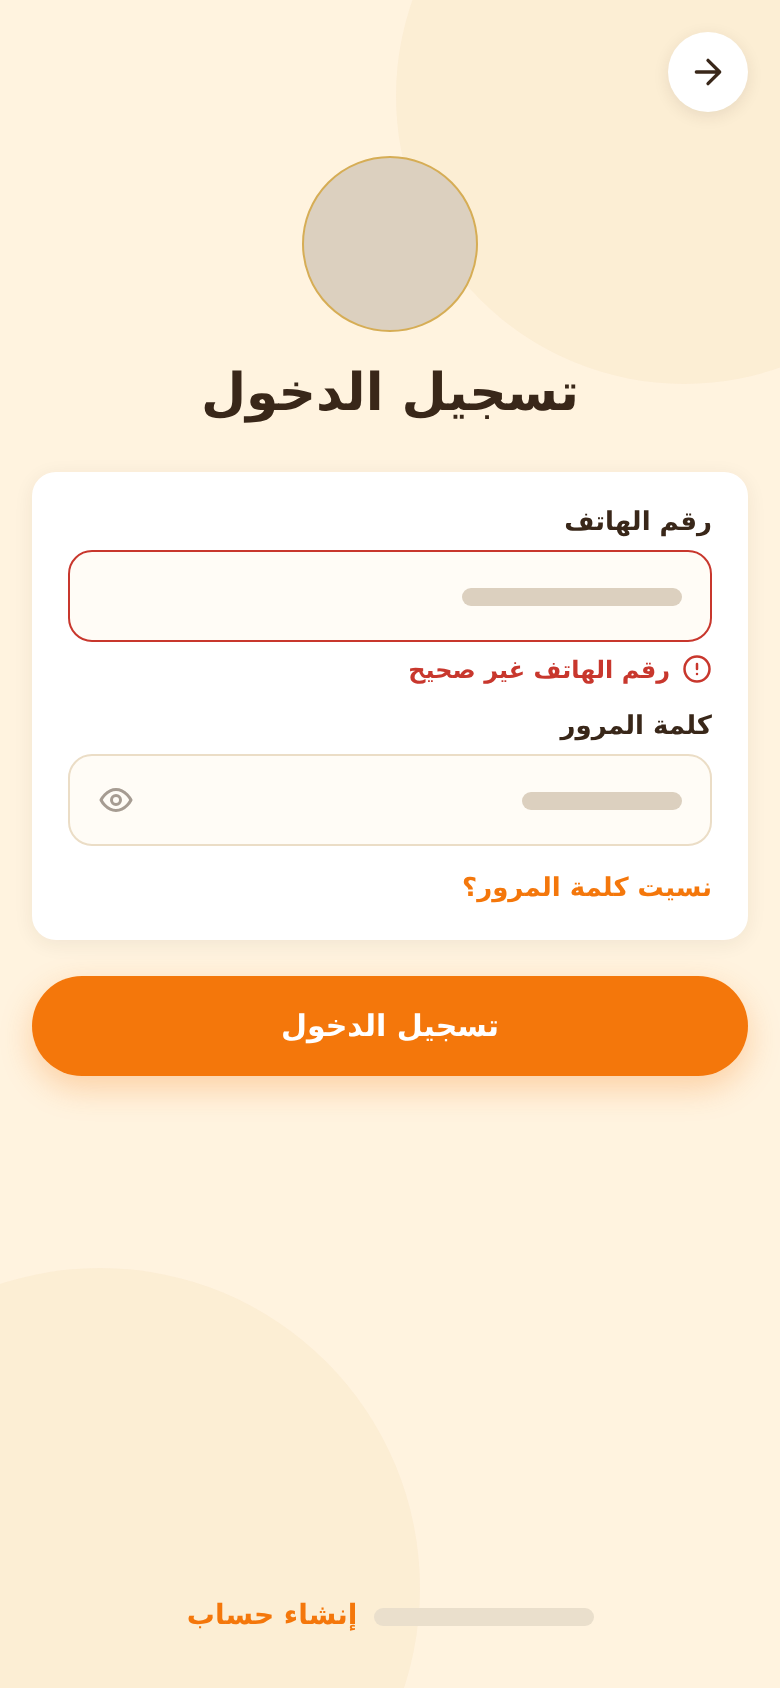
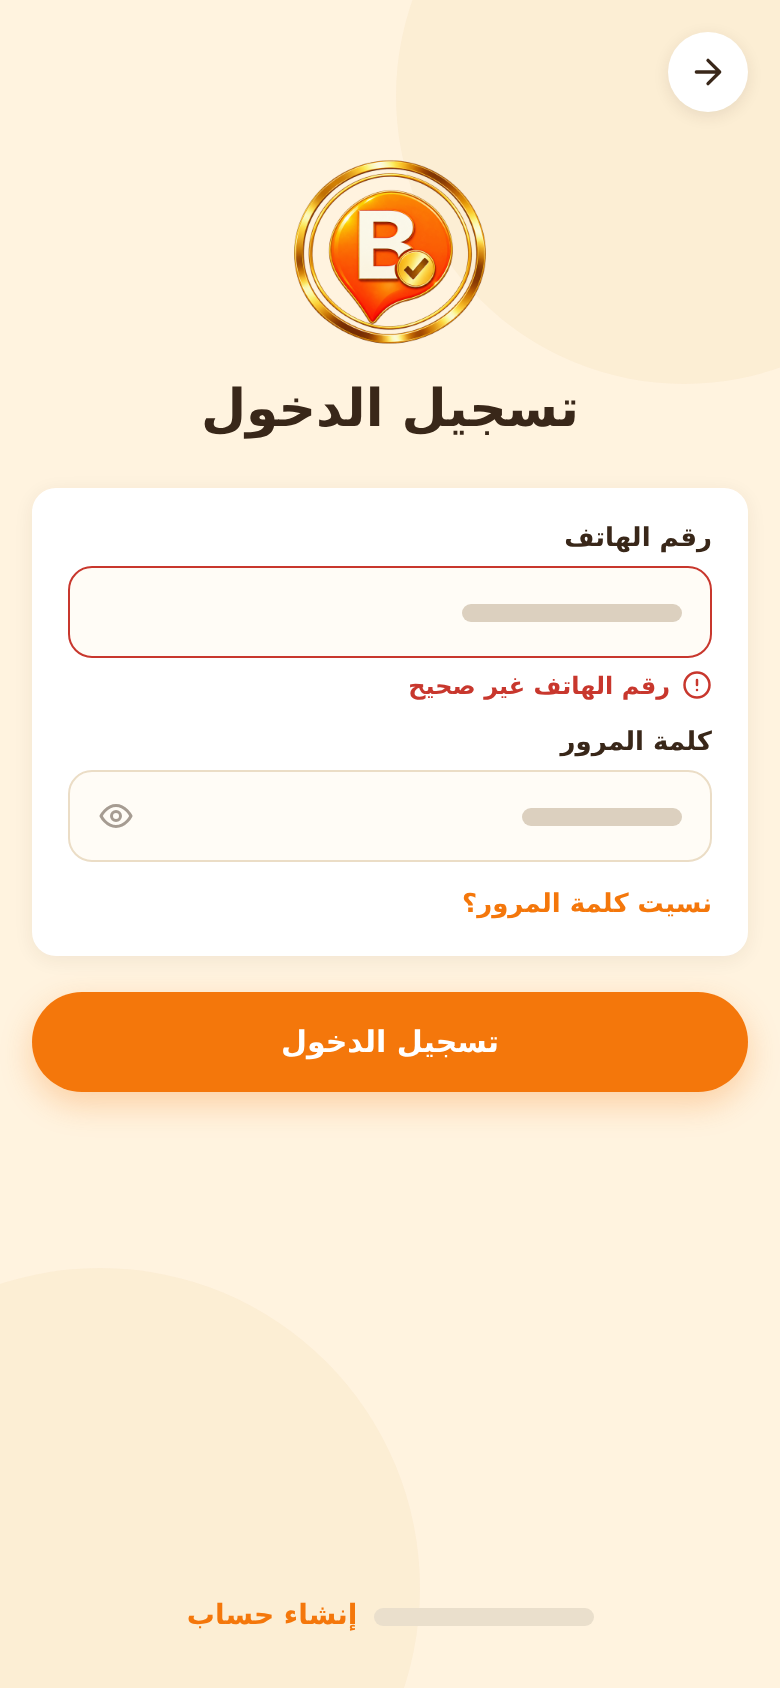
Add files via upload

Changed region(s): [[0.0308, 0.0924, 0.9538, 0.6469], [0.1231, 0.4621, 0.1846, 0.4929], [0.0923, 0.3697, 0.1231, 0.4005]]

diff --git a/01_splash.html b/01_splash.html
@@ -1,81 +1,87 @@
 <!DOCTYPE html>
-<html lang="ar" dir="rtl" class="h-full">
+<html lang="ar" dir="rtl">
 <head>
-  <meta charset="UTF-8">
-  <meta name="viewport" content="width=device-width, initial-scale=1.0">
-  <title>شاشة البداية - بيستاهل BISTAHEL</title>
-  <link rel="preconnect" href="https://fonts.googleapis.com">
-  <link rel="preconnect" href="https://fonts.gstatic.com" crossorigin>
-  <link href="https://fonts.googleapis.com/css2?family=IBM+Plex+Sans+Arabic:wght@400;600;700&display=swap" rel="stylesheet">
-  <script src="https://cdn.tailwindcss.com"></script>
-  <script>
-    tailwind.config = {
-      theme: {
-        extend: {
-          fontFamily: {
-            sans: ['"IBM Plex Sans Arabic"', 'sans-serif'],
-          },
-          colors: {
-            brand: {
-              orange: '#F4770B',
-              gold: '#D6AD55',
-              bg: '#FFF3DF',
-              dark: '#392719',
-              warmgray: '#E6DCCF'
-            }
-          }
-        }
-      }
-    }
-  </script>
-  <style>
-    body {
-      font-family: 'IBM Plex Sans Arabic', sans-serif;
-      background-color: #FFF3DF;
-      color: #392719;
-      margin: 0;
-      padding: 0;
-      overflow: hidden;
-      -webkit-font-smoothing: antialiased;
-      -moz-osx-font-smoothing: grayscale;
-    }
-  </style>
+<meta charset="utf-8"/>
+<meta name="viewport" content="width=device-width, initial-scale=1.0"/>
+<title>شاشة البداية - بيستاهل BISTAHEL</title>
+<link rel="preconnect" href="https://fonts.googleapis.com"/>
+<link rel="preconnect" href="https://fonts.gstatic.com" crossorigin/>
+<link href="https://fonts.googleapis.com/css2?family=IBM+Plex+Sans+Arabic:wght@400;500;600;700&display=swap" rel="stylesheet"/>
+<style>
+*{box-sizing:border-box;margin:0;padding:0;-webkit-tap-highlight-color:transparent}
+html,body{background:#FFF3DF}
+body{font-family:'IBM Plex Sans Arabic','Noto Sans Arabic','DejaVu Sans',sans-serif;color:#392719;direction:rtl;display:flex;justify-content:center}
+.screen{width:390px;height:844px;background:#FFF3DF;position:relative;display:flex;flex-direction:column;overflow:hidden}
+.grow{flex:1}
+.sk{display:inline-block;background:#DCD0BF}.sk2{display:inline-block;background:#EADFCC}
+.row{display:flex;align-items:center}.col{display:flex;flex-direction:column}
+.ib{border:0;border-radius:50%;display:inline-flex;align-items:center;justify-content:center;box-shadow:0 2px 8px rgba(57,39,25,.10);flex:none;cursor:pointer}
+.card{background:#fff;border-radius:12px;box-shadow:0 2px 10px rgba(57,39,25,.07)}
+.h2{font-size:16px;font-weight:700;line-height:24px}
+.link{font-size:12px;font-weight:600;color:#F4770B;display:inline-flex;align-items:center;gap:2px}
+.stars{display:inline-flex;align-items:center}
+.svb{position:absolute;width:26px;height:26px;border-radius:50%;background:rgba(255,255,255,.92);display:flex;align-items:center;justify-content:center}
+.chips{display:flex;gap:8px;overflow:hidden;padding:2px 16px}
+.chip{height:32px;padding:0 16px;border-radius:999px;background:#fff;border:1px solid rgba(57,39,25,.14);display:flex;align-items:center;flex:none}
+.chip.on{background:#F4770B;border-color:#F4770B;box-shadow:0 2px 6px rgba(244,119,11,.25)}
+.chip.on i{background:rgba(255,255,255,.85)}
+.hscroll{display:flex;gap:12px;overflow:hidden;padding:2px 16px 6px}
+.pc{width:148px;flex:none;background:#fff;border-radius:12px;box-shadow:0 2px 10px rgba(57,39,25,.07);overflow:hidden}
+.pc .img{position:relative;height:104px;background:#D8CEBF}
+.pc .b{padding:10px 10px 12px;display:flex;flex-direction:column;gap:7px}
+.hc{display:flex;gap:12px;padding:10px;background:#fff;border-radius:12px;box-shadow:0 2px 10px rgba(57,39,25,.07);align-items:stretch}
+.hc .img{position:relative;width:84px;height:84px;border-radius:10px;background:#D8CEBF;flex:none}
+.hc .b{flex:1;display:flex;flex-direction:column;justify-content:space-between;padding:2px 0}
+.dc{background:#fff;border-radius:12px;box-shadow:0 2px 10px rgba(57,39,25,.07);padding:8px}
+.dc .img{position:relative;height:112px;border-radius:10px;background:#D8CEBF}
+.dc .b{display:flex;flex-direction:column;gap:7px;padding:10px 2px 4px}
+.grid2{display:grid;grid-template-columns:1fr 1fr;gap:12px;padding:0 16px}
+.nav{position:sticky;bottom:0;height:68px;background:#fff;border-top:1px solid rgba(57,39,25,.08);box-shadow:0 -4px 12px rgba(57,39,25,.05);display:flex;align-items:center;justify-content:space-around;padding:0 8px;z-index:9;flex:none}
+.nav .it{width:48px;height:48px;display:flex;align-items:center;justify-content:center;color:rgba(57,39,25,.42)}
+.nav .it.on{color:#F4770B}
+.nav .fab{width:56px;height:56px;border-radius:50%;background:#F4770B;border:4px solid #fff;color:#fff;display:flex;align-items:center;justify-content:center;margin-top:-26px;box-shadow:0 6px 16px rgba(244,119,11,.4)}
+.field{display:flex;flex-direction:column;gap:6px}
+.lbl{font-size:13px;font-weight:600}
+.inp{height:46px;border-radius:12px;border:1px solid #EBDDC6;background:#FFFCF6;display:flex;align-items:center;justify-content:space-between;padding:0 14px}
+.btn{height:50px;border:0;border-radius:999px;background:#F4770B;color:#fff;font-family:inherit;font-size:15px;font-weight:700;box-shadow:0 6px 16px rgba(244,119,11,.28);width:100%}
+.btn.out{background:#fff;color:#F4770B;border:1.5px solid #F4770B;box-shadow:none;height:44px;font-size:14px}
+.deco1{position:absolute;top:-96px;right:-96px;width:288px;height:288px;border-radius:50%;background:#D6AD55;opacity:.08}
+.deco2{position:absolute;bottom:-110px;left:-110px;width:320px;height:320px;border-radius:50%;background:#D6AD55;opacity:.08}
+.logo{border-radius:50%;background:#DCD0BF;border:1.5px solid #D6AD55}
+.tabs{display:flex;background:#fff;margin:0 16px;border-radius:12px;box-shadow:0 2px 10px rgba(57,39,25,.07)}
+.tab{flex:1;text-align:center;padding:12px 0 10px;font-size:14px;font-weight:600;color:rgba(57,39,25,.5);border-bottom:3px solid transparent}
+.tab.on{color:#F4770B;border-bottom-color:#F4770B}
+.bbar{position:sticky;bottom:0;background:rgba(255,255,255,.94);box-shadow:0 -4px 20px rgba(57,39,25,.08);padding:12px 16px;display:flex;gap:12px;align-items:center;z-index:9;flex:none}
+.bbar .btn{flex:1;height:48px}
+.hero{position:relative;height:220px;background:#D8CEBF;flex:none}
+.hero .t{position:absolute;top:16px;left:16px;right:16px;display:flex;justify-content:space-between}
+.dots{position:absolute;bottom:22px;left:0;right:0;display:flex;justify-content:center;gap:6px}
+.dots b{width:8px;height:8px;border-radius:50%;background:rgba(255,255,255,.7)}.dots b.on{width:22px;border-radius:99px;background:#F4770B}
+.info{margin:-12px 16px 0;padding:16px;position:relative;z-index:2;display:flex;flex-direction:column;gap:12px}
+.rv{padding:14px;display:flex;flex-direction:column;gap:12px}
+.pill{display:inline-block;background:#fff;border:1px solid #EBDDC6;border-radius:999px}
+.tl{position:relative;padding:0 16px;display:flex;flex-direction:column;gap:14px}
+.tl:before{content:"";position:absolute;right:35px;top:20px;bottom:20px;width:2px;background:#E6D7BD}
+.tli{display:flex;gap:12px;align-items:flex-start;position:relative}
+.dot{width:40px;height:40px;border-radius:50%;background:#fff;border:2px solid #F9C79A;display:flex;align-items:center;justify-content:center;color:#F4770B;flex:none;z-index:2}
+</style>
 </head>
-<body class="h-full w-full flex items-center justify-center p-0 m-0 bg-[#FFF3DF] select-none">
-  <!-- Container strictly sized for standard 390x844 mobile viewport with no scrolling -->
-  <div class="relative w-[390px] h-[844px] max-w-[390px] max-h-[844px] bg-[#FFF3DF] overflow-hidden flex flex-col items-center justify-between shadow-2xl">
-    
-    <!-- 1. Ambient Background Decor: Two subtle soft gold transparent circles in opposite corners -->
-    <!-- Top-Right decorative circle -->
-    <div class="absolute -top-24 -right-24 w-72 h-72 rounded-full pointer-events-none" 
-         style="background-color: #D6AD55; opacity: 0.08;"></div>
-    
-    <!-- Bottom-Left decorative circle -->
-    <div class="absolute -bottom-28 -left-28 w-80 h-80 rounded-full pointer-events-none" 
-         style="background-color: #D6AD55; opacity: 0.08;"></div>
+<body>
+<main class="screen" data-screen="شاشة البداية">
 
-    <!-- Empty top spacer to achieve the requested 'slightly above center' balance -->
-    <div class="h-8 w-full pointer-events-none"></div>
+<div class="deco1"></div><div class="deco2"></div>
+<div class="grow" style="flex:1.1"></div>
+<div class="col" style="align-items:center;position:relative">
+  <img src="logo-mark.png" alt="" width="144" height="144" style="width:144px;height:144px;object-fit:contain;flex:none;display:block"/>
+  <h1 style="margin-top:22px;font-size:36px;font-weight:700;letter-spacing:-.01em">بيستاهل</h1>
+</div>
+<div class="grow" style="flex:1.4"></div>
+<div class="row" style="justify-content:center;gap:8px;margin-bottom:80px;position:relative">
+  <i style="width:10px;height:10px;border-radius:50%;background:#F4770B"></i>
+  <i style="width:10px;height:10px;border-radius:50%;background:#F4770B;opacity:.4"></i>
+  <i style="width:10px;height:10px;border-radius:50%;background:#F4770B;opacity:.4"></i>
+</div>
 
-    <!-- 2. Center Branding Group (placed slightly above exact center) -->
-    <div class="relative z-10 flex flex-col items-center justify-center -mt-10">
-      <!-- Empty warm-gray circle placeholder for logo (120px diameter) with thin gold border -->
-      <div class="w-[120px] h-[120px] rounded-full border border-[#D6AD55] bg-[#E6DCCF] shadow-sm flex items-center justify-center"></div>
-
-      <!-- App Name: strictly "بيستاهل" in bold large brown text -->
-      <h1 class="mt-6 text-4xl font-bold tracking-tight text-[#392719]">
-        بيستاهل
-      </h1>
-    </div>
-
-    <!-- 3. Bottom Loading Indicator: exactly 80px from bottom edge -->
-    <!-- 3 small dots in #F4770B: 1st filled (100%), 2nd and 3rd at 40% opacity -->
-    <div class="relative z-10 mb-[80px] flex items-center justify-center gap-2">
-      <div class="w-2.5 h-2.5 rounded-full bg-[#F4770B]"></div>
-      <div class="w-2.5 h-2.5 rounded-full bg-[#F4770B] opacity-40"></div>
-      <div class="w-2.5 h-2.5 rounded-full bg-[#F4770B] opacity-40"></div>
-    </div>
-
-  </div>
+</main>
 </body>
 </html>

diff --git a/18_login_error.html b/18_login_error.html
@@ -71,7 +71,7 @@ body{font-family:'IBM Plex Sans Arabic','Noto Sans Arabic','DejaVu Sans',sans-se
 
 <div class="deco1"></div><div class="deco2"></div>
 <div style="padding:16px;position:relative"><button class="ib" style="width:40px;height:40px;background:#fff;color:#392719"><svg class="" width="20" height="20" viewBox="0 0 24 24" fill="none" stroke="currentColor" stroke-width="2" stroke-linecap="round" stroke-linejoin="round"><path d="M5 12h14M12 5l7 7-7 7"/></svg></button></div>
-<div class="col" style="align-items:center;gap:16px;margin-top:6px;position:relative"><i class="sk" style="width:88px;height:88px;border-radius:50%;flex:none;border:1.5px solid #D6AD55"></i><h1 style="font-size:26px;font-weight:700">تسجيل الدخول</h1></div>
+<div class="col" style="align-items:center;gap:16px;margin-top:6px;position:relative"><img src="logo-mark.png" alt="" width="96" height="96" style="width:96px;height:96px;object-fit:contain;flex:none;display:block"/><h1 style="font-size:26px;font-weight:700">تسجيل الدخول</h1></div>
 <div class="card col" style="margin:24px 16px 0;padding:18px;gap:14px;position:relative">
   <div class="field"><span class="lbl">رقم الهاتف</span><div class="inp" style="border-color:#C8372D;border-width:1.5px"><i class="sk" style="width:110px;height:9px;border-radius:999px;"></i><span></span></div><div class="row" style="gap:6px;color:#C8372D"><svg class="" width="15" height="15" viewBox="0 0 24 24" fill="none" stroke="#C8372D" stroke-width="2" stroke-linecap="round" stroke-linejoin="round"><circle cx="12" cy="12" r="10"/><path d="M12 8v4M12 16h.01"/></svg><span style="font-size:12px;font-weight:600">رقم الهاتف غير صحيح</span></div></div>
   <div class="field"><span class="lbl">كلمة المرور</span><div class="inp" style="border-color:#EBDDC6;border-width:1px"><i class="sk" style="width:80px;height:9px;border-radius:999px;"></i><svg class="" width="18" height="18" viewBox="0 0 24 24" fill="none" stroke="rgba(57,39,25,.45)" stroke-width="2" stroke-linecap="round" stroke-linejoin="round"><path d="M2 12s3.5-7 10-7 10 7 10 7-3.5 7-10 7S2 12 2 12z"/><circle cx="12" cy="12" r="3"/></svg></div></div>

diff --git a/03_signup.html b/03_signup.html
@@ -72,7 +72,7 @@ body{font-family:'IBM Plex Sans Arabic','Noto Sans Arabic','DejaVu Sans',sans-se
 <div class="deco1"></div><div class="deco2"></div>
 <div style="padding:16px;position:relative"><button class="ib" style="width:40px;height:40px;background:#fff;color:#392719"><svg class="" width="20" height="20" viewBox="0 0 24 24" fill="none" stroke="currentColor" stroke-width="2" stroke-linecap="round" stroke-linejoin="round"><path d="M5 12h14M12 5l7 7-7 7"/></svg></button></div>
 <div class="col" style="align-items:center;gap:16px;margin-top:6px;position:relative">
-  <i class="sk" style="width:88px;height:88px;border-radius:50%;flex:none;border:1.5px solid #D6AD55"></i>
+  <img src="logo-mark.png" alt="" width="96" height="96" style="width:96px;height:96px;object-fit:contain;flex:none;display:block"/>
   <h1 style="font-size:26px;font-weight:700">إنشاء حساب</h1>
 </div>
 <div class="card col" style="margin:24px 16px 0;padding:18px;gap:14px;position:relative"><div class="field"><span class="lbl">الاسم</span><div class="inp"><i class="sk" style="width:110px;height:9px;border-radius:999px;"></i><span></span></div></div><div class="field"><span class="lbl">رقم الهاتف</span><div class="inp"><i class="sk" style="width:110px;height:9px;border-radius:999px;"></i><span></span></div></div><div class="field"><span class="lbl">كلمة المرور</span><div class="inp"><i class="sk" style="width:110px;height:9px;border-radius:999px;"></i><svg class="" width="18" height="18" viewBox="0 0 24 24" fill="none" stroke="rgba(57,39,25,.45)" stroke-width="2" stroke-linecap="round" stroke-linejoin="round"><path d="M2 12s3.5-7 10-7 10 7 10 7-3.5 7-10 7S2 12 2 12z"/><circle cx="12" cy="12" r="3"/></svg></div></div><div class="row" style="gap:10px"><i class="sk" style="width:20px;height:20px;border-radius:6px"></i><i class="sk2" style="width:170px;height:9px;border-radius:999px;"></i></div></div>

diff --git a/02_login.html b/02_login.html
@@ -72,7 +72,7 @@ body{font-family:'IBM Plex Sans Arabic','Noto Sans Arabic','DejaVu Sans',sans-se
 <div class="deco1"></div><div class="deco2"></div>
 <div style="padding:16px;position:relative"><button class="ib" style="width:40px;height:40px;background:#fff;color:#392719"><svg class="" width="20" height="20" viewBox="0 0 24 24" fill="none" stroke="currentColor" stroke-width="2" stroke-linecap="round" stroke-linejoin="round"><path d="M5 12h14M12 5l7 7-7 7"/></svg></button></div>
 <div class="col" style="align-items:center;gap:16px;margin-top:6px;position:relative">
-  <i class="sk" style="width:88px;height:88px;border-radius:50%;flex:none;border:1.5px solid #D6AD55"></i>
+  <img src="logo-mark.png" alt="" width="96" height="96" style="width:96px;height:96px;object-fit:contain;flex:none;display:block"/>
   <h1 style="font-size:26px;font-weight:700">تسجيل الدخول</h1>
 </div>
 <div class="card col" style="margin:24px 16px 0;padding:18px;gap:14px;position:relative"><div class="field"><span class="lbl">رقم الهاتف</span><div class="inp"><i class="sk" style="width:110px;height:9px;border-radius:999px;"></i><span></span></div></div><div class="field"><span class="lbl">كلمة المرور</span><div class="inp"><i class="sk" style="width:110px;height:9px;border-radius:999px;"></i><svg class="" width="18" height="18" viewBox="0 0 24 24" fill="none" stroke="rgba(57,39,25,.45)" stroke-width="2" stroke-linecap="round" stroke-linejoin="round"><path d="M2 12s3.5-7 10-7 10 7 10 7-3.5 7-10 7S2 12 2 12z"/><circle cx="12" cy="12" r="3"/></svg></div></div><div class="row" style="justify-content:flex-start"><span class="link" style="font-size:13px">نسيت كلمة المرور؟</span></div></div>

diff --git a/04_home.html b/04_home.html
@@ -70,7 +70,7 @@ body{font-family:'IBM Plex Sans Arabic','Noto Sans Arabic','DejaVu Sans',sans-se
 <main class="screen" data-screen="الرئيسية">
 
 <div class="row" style="justify-content:space-between;padding:16px 16px 4px">
-  <div class="row" style="gap:10px"><i class="sk" style="width:36px;height:36px;border-radius:50%;flex:none;border:1.5px solid #D6AD55"></i><span style="font-size:18px;font-weight:700">بيستاهل</span></div>
+  <div class="row" style="gap:10px"><img src="logo-mark.png" alt="" width="40" height="40" style="width:40px;height:40px;object-fit:contain;flex:none;display:block"/><span style="font-size:18px;font-weight:700">بيستاهل</span></div>
   <button class="ib" style="width:40px;height:40px;background:#fff;color:#392719"><svg class="" width="20" height="20" viewBox="0 0 24 24" fill="none" stroke="currentColor" stroke-width="2" stroke-linecap="round" stroke-linejoin="round"><path d="M6 8a6 6 0 0 1 12 0c0 7 3 9 3 9H3s3-2 3-9"/><path d="M10.3 21a1.94 1.94 0 0 0 3.4 0"/></svg></button>
 </div>
 <div class="row" style="padding:6px 16px 0;gap:6px"><svg class="" width="16" height="16" viewBox="0 0 24 24" fill="none" stroke="#F4770B" stroke-width="2" stroke-linecap="round" stroke-linejoin="round"><path d="M20 10c0 6-8 12-8 12s-8-6-8-12a8 8 0 0 1 16 0Z"/><circle cx="12" cy="10" r="3"/></svg><i class="sk" style="width:110px;height:9px;border-radius:999px;"></i><svg class="" width="16" height="16" viewBox="0 0 24 24" fill="none" stroke="rgba(57,39,25,.5)" stroke-width="2" stroke-linecap="round" stroke-linejoin="round"><path d="m6 9 6 6 6-6"/></svg></div>

diff --git a/DESIGN_SYSTEM.md b/DESIGN_SYSTEM.md
@@ -21,3 +21,9 @@
 | خطأ (حقل / رسالة) | #C8372D |
 | حدود البطاقات | #F0E2CD |
 | رمادي هيكلي دافئ | #DCD0BF / #EADFCC |
+
+## الشعار
+- `logo.png`: الشعار الكامل (الرمز + الاسم اللاتيني)، خلفية شفافة.
+- `logo-mark.png`: الرمز فقط (الحلقات الذهبية + دبوس B)، مربع 512×512 بخلفية شفافة. يُستخدم في شاشات البداية والدخول والتسجيل ورأس الرئيسية.
+- أحجام الاستخدام: البداية 144px، الدخول والتسجيل 96px، رأس الرئيسية 40px.
+- ملفات html تشير إليه بمسار نسبي `logo-mark.png`، فلازم يكون بنفس مجلد ملفات الـ html.

diff --git a/README.md b/README.md
@@ -11,6 +11,7 @@
 - ملفات `.html`: كود كل شاشة (ملف مستقل، CSS مضمّن، الخط IBM Plex Sans Arabic من Google Fonts)
 - ملفات `.png`: صورة كل شاشة بنفس الرقم والاسم (كل شاشة ملفان متجاوران)
 - `DESIGN_SYSTEM.md` الهوية البصرية
+- `logo.png` و`logo-mark.png`: الشعار (شفاف)
 
 ## الشاشات
 | # | الشاشة | الكود | الصورة | المصدر |
